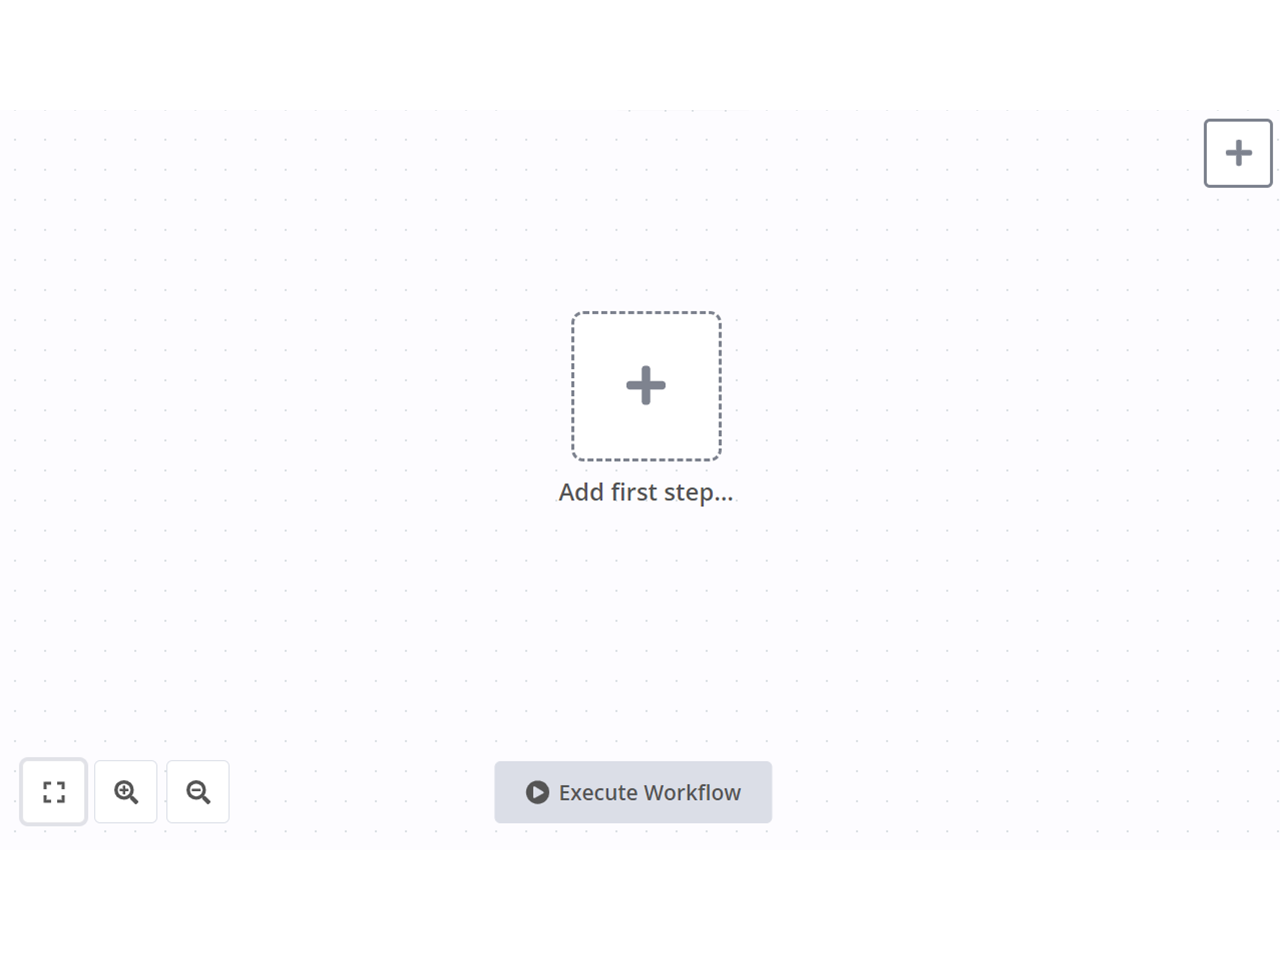
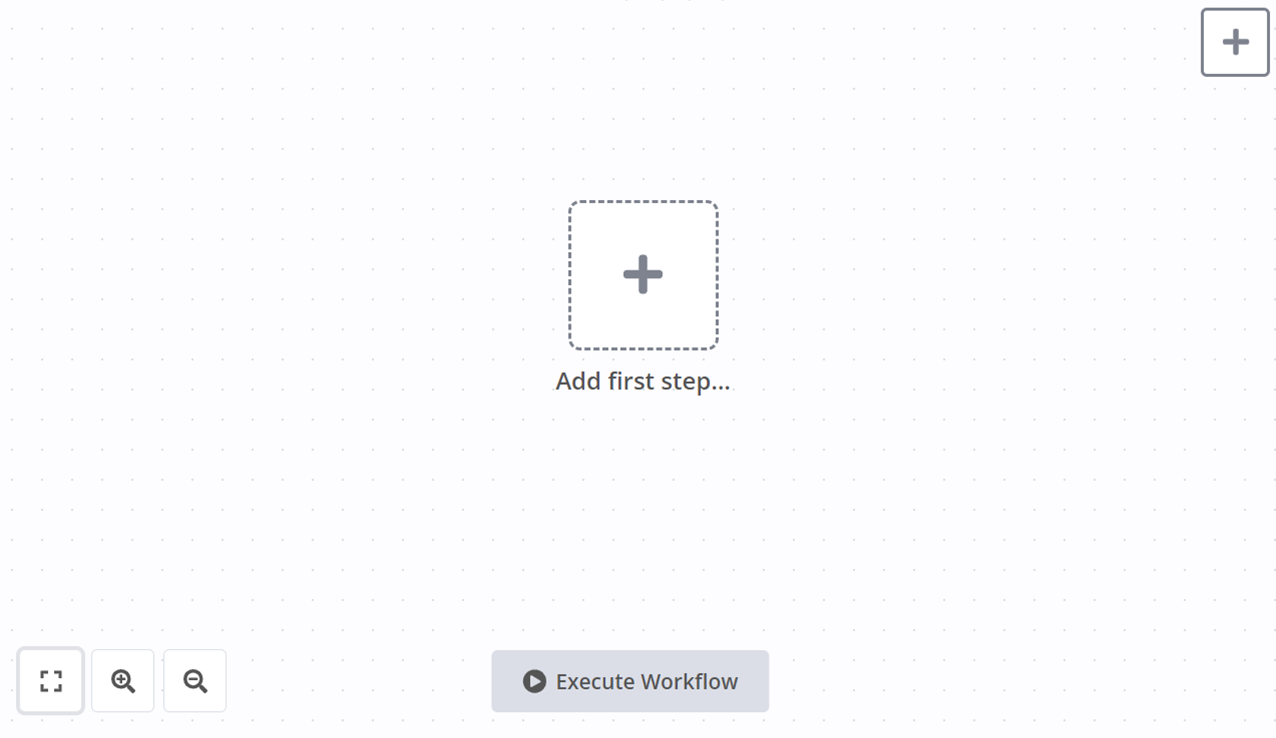
Copy updates and new images for level 1 chapter 1 of course.

diff --git a/docs/courses/level-one/chapter-1.md b/docs/courses/level-one/chapter-1.md
@@ -8,16 +8,19 @@ In this lesson you will learn how to navigate the Editor UI. We will walk throug
 
 ## Getting started
 
-First of all, you need to get n8n. There are different [ways to set up n8n](/hosting/options/){:target="_blank" .external}, choose the option that best suits your skills and needs.
+The first step is setting up n8n. There are two ways you can do this:
+
+- [n8n Cloud](https://app.n8n.cloud/register){:target="_blank" .external} - Hosted solution, no installation needed. Great for all levels of expereince
+- [Self-host](/hosting/){:target="_blank" .external} - Recommended for advanced users with technical knowledge
+
+For more details on the different ways to set up n8n, see our [platforms documentation](/choose-n8n/#platforms){:target="_blank" .external}
 
 /// warning | n8n version
-This course was developed on n8n version 0.175.1. In other versions, the Editor UI might look different, but the core functionality of the workflows should not be impacted.
+This course was developed on n8n version 1.15.0. In other versions, some of the user interface might look different, but the core functionality should not be impacted.
 ///
 Once you have n8n running, open the Editor UI in a browser window. It should look like this:
 
-<figure><img src="/_images/courses/level-one/chapter-one/editor-ui.png" alt="Editor UI" style="width:100%"><figcaption align = "center"><i>Editor UI</i></figcaption></figure>
-
-Next, you'll learn how to navigate the Editor UI.
+<figure><img src="/_images/courses/level-one/chapter-one/l1-c1-editor-ui.png" alt="Editor UI" style="width:100%"><figcaption align = "center"><i>Editor UI</i></figcaption></figure>
 
 ## Editor UI settings
 
@@ -25,30 +28,33 @@ The [Editor UI](/editor-ui/) represents the web interface where you build [workf
 
 ### Left-side panel
 
-In the upper left corner, click on the round arrow icon. This will open the left-side menu, which contains the core functionalities and settings for managing workflows.
+On the left side of the editor UI, there is a panel which contains the core functionalities and settings for managing your workflows. It can be expanded and collapsed by clicking on the small arrow icon.
 
 The panel contains the following sections:
 
-- *Admin Panel*: Access the management Dashboard (for n8n Cloud users).
-- *Workflows*: Contains operations for creating and editing workflows.
-- *Templates*: Contains pre-built workflows that can be searched.
-- *Credentials*: Contains operations for creating credentials.
-- *Executions*: Contains information about your workflow executions.
-- *Settings*: Contains editable configuration for the account and other things.
-- *Help*: Contains resources around n8n product and community.
+- *Workflows*: Contains all the workflows you have access to and where you can create new workflows.
+- *Templates*: A collection of pre-made workflows. Great place to get started with common use cases.
+- *Credentials*: Contains all the credentials you have access to and where you can add additional credentials.
+- *Variables*: Used to store and access fixed data across your workflows. This feature is available on Pro & Enterprise Plan.
+- *All executions*: Contains information about your workflow executions
+- *Admin Panel*: Access your n8n instance usage, billing and version settings(for n8n Cloud users)
+- *Settings*: Access settings for a variety of features, manage users
+- *Help*: Contains resources around n8n product and community
+- *Update*: Indicator for any recently released product updates 
 
-<figure style="text-align: center;"><img src="/_images/courses/level-one/chapter-one/Left-side-menu.png" alt="Editor UI left-side menu" style="height: 600px;"><figcaption align = "center"><i>Editor UI left-side menu</i></figcaption></figure>
+<figure style="text-align: center;"><img src="/_images/courses/level-one/chapter-one/l1-c1-side-panel.png" alt="Editor UI left-side menu" style="height: 600px;"><figcaption align = "center"><i>Editor UI left-side menu</i></figcaption></figure>
 
 ### Top bar
 
 The top bar of the Editor UI contains the following information:
 
-- *Name* of the current workflow. By default, a new workflow is named "My Workflow", but can edit this name anytime.
-- *Tag* of the current workflow. Tags help you organize your workflows by category, use case, or whatever is relevant for you. Tags are optional.
-- *Save* button that saves the current workflow.
-- *Toggle* button that activates or deactivates the current workflow. By default, workflows are deactivated.
+- *Workflow Name:* By default, a new workflow is named “My Workflow”, but can be edited at any time as required.
+- *+Add Tag:* Tags help you organise your workflows by category, use case or whatever is relevant for you. Tags are also optional
+- *Inactive/active toggle:* This button activates or deactivates the current workflow. By default, workflows are deactivated.
+- *Share:* You can share and collaborate with others on workflows on the Starter, Pro & Enterprise plans
+- *Save:* This button saves the current workflow
 
-<figure><img src="/_images/courses/level-one/chapter-one/editor-ui-top-bar.png" alt="Editor UI top bar" style="width:100%"><figcaption align = "center"><i>Editor UI top bar</i></figcaption></figure>
+<figure><img src="/_images/courses/level-one/chapter-one/l1-c1-top-bar.png" alt="Editor UI top bar" style="width:100%"><figcaption align = "center"><i>Editor UI top bar</i></figcaption></figure>
 
 ### Canvas
 
@@ -57,10 +63,10 @@ The *canvas* is the gray grid background in the Editor UI. On the canvas, there 
 - Buttons to zoom the canvas to fit the screen, zoom in or out of the canvas, and reset the canvas to the original resolution.
 - A button to *Execute Workflow*. When you click on it, all nodes on the canvas are executed.
 - A button with a *+* sign inside. This button opens the nodes panel.
-- A button with a note icon inside. This button adds a [sticky note](/workflows/sticky-notes){:target="_blank" .external} to the canvas.
-- A square with a green play icon inside. This is the *Start node*. You will learn more about nodes in the [next section](#nodes).
+- A button with a note icon inside. This button adds a [sticky note](/workflows/sticky-notes){:target="_blank" .external} to the canvas. (Visible when hovering on the top right + icon)
+- A dotted square with the text "add first step". This is where you would add your first node.
 
-<figure><img src="/_images/courses/level-one/chapter-one/workflow-canvas.png" alt="Workflow canvas" style="width:100%"><figcaption align = "center"><i>Workflow canvas</i></figcaption></figure>
+<figure><img src="/_images/courses/level-one/chapter-one/l1-c1-canvas.png" alt="Workflow canvas" style="width:100%"><figcaption align = "center"><i>Workflow canvas</i></figcaption></figure>
 
 /// note | Moving the canvas
 You can move the workflow canvas around in two ways:
@@ -74,7 +80,7 @@ Don't worry about workflow execution and activation for now, we will explain the
 
 ## Nodes
 
-You can think of nodes as building blocks that serve different functions but, when put together, they make up a functioning machinery – an automated workflow.
+You can think of nodes as building blocks that serve different functions but, when put together, they make up a functioning machine – an automated workflow.
 
 /// note | Node
 A node is an individual step in your workflow — one that either (a) loads, (b) processes or (c) sends data.
@@ -86,30 +92,22 @@ Based on their function, nodes can be classified into two types:
 - **Trigger Nodes** start a workflow and supply the initial data.
 
 /// note | Keep in mind
-Among the Regular and Trigger nodes there are some nodes that do not represent any app or service, instead they serve general functions like scheduling workflows (e.g. Cron and Interval nodes) or adding JavaScript functions (e.g. Function and Function Item nodes). We refer to these as *Core Nodes*.
+Among the Regular and Trigger nodes there are some nodes that do not represent any app or service, instead they serve general functions like scheduling workflows (e.g. Schedule Trigger) or adding JavaScript functions (e.g. Code Node). We refer to these as *Core Nodes*.
 ///
-
-### Start node
-
-The [*Start node*](/integrations/builtin/core-nodes/n8n-nodes-base.start/){:target="_blank" .external} is the default starting point in any workflow. Every time you create a new workflow, a *Start node* will be included by default.
-
-The **Start** node cannot be deleted or duplicated. If you have a workflow in which you don't use the Start node, you can remove the connection, deactivate it, and move it away from the workflow. If you need more than one Start node, you probably need to use other Trigger nodes or create separate workflows.
-
-You've probably figured out already that the *Start node* is a Core Trigger node. Apart from it, there are over 290 other Regular and Trigger nodes for various functions, apps, and services.
 
 ### Finding nodes
 
 You can find all available nodes in the nodes panel on the right side of the Editor UI. There are three ways in which you can open the nodes panel:
 
 - Click the *+* icon in the top right corner of the canvas.
-- Click the gray dot on the right side of an existing node on the canvas (the node to which you want to add another one) and pull the connection line to the right.
+- Click the *+* icon on the right side of an existing node on the canvas (the node to which you want to add another one)
 - Click the Tab key on your keyboard.
 
-<figure style="text-align: center;"><img src="/_images/courses/level-one/chapter-one/nodes-panel.png" alt="Nodes panel" style="width:50%"><figcaption align = "center"><i>Nodes panel</i></figcaption></figure>
+<figure style="text-align: center; width:50%; margin:auto;"><img src="/_images/courses/level-one/chapter-one/l1-c1-node-menu-drilldown.gif" alt="Nodes panel"><figcaption align = "center"><i>Nodes panel</i></figcaption></figure>
 
-In the nodes panel, notice that the nodes are grouped in three tabs: All, Regular, and Trigger. In addition, nodes are also grouped by their functionality domain (like Analytics or Sales). This makes it easier to find the nodes you need.
+In the nodes panel, notice that when adding your first node, you will see the different trigger node categories. After you have added your trigger node, you'll see that the nodes panel changes to show Action, Data transformation, Helper, Flow and File nodes.
 
-If you want to get a specific node, type in the name of the node, app, or service in the search field and select the respective tab.
+If you want to find a specific node, you can use the search input at the top of the nodes panel.
 
 
 ### Adding nodes
@@ -119,21 +117,14 @@ There are two ways to add nodes to your canvas:
 - Click on the node you want in the nodes panel. The new node will automatically be connected to the selected node on the canvas.
 - Drag and drop the node from the nodes panel to the canvas.
 
-To review, here's a walkthrough of the Editor UI touching on all the settings you've learned so far:
-
-<figure><img src="/_images/courses/level-one/chapter-one/Editor-UI-walkthrough.gif" alt="Editor UI walkthrough" style="width:100%"><figcaption align = "center"><i>Editor UI walkthrough</i></figcaption></figure>
-
 ### Node buttons
 
 If you hover on a node, you'll notice that four icons appear on top:
 
-- Delete the node
-- Deactivate/Activate the node
-- Duplicate the node
-- Execute the node
-
-<figure><img src="/_images/courses/level-one/chapter-one/Node-buttons.gif" alt="The four node buttons" style="width:100%"><figcaption align = "center"><i>The four node buttons</i></figcaption></figure>
-
+- Delete the node (Trash icon)
+- Deactivate/Activate the node (Pause icon)
+- Duplicate the node (Copy icon)
+- Execute the node (Play icon)
 
 /// note | Moving a workflow
 To move a workflow around the canvas, select all nodes with your mouse or by clicking **Ctrl + A**, click and hold on a node, then drag it to any point you want on the canvas.

diff --git a/docs/courses/level-one/index.md b/docs/courses/level-one/index.md
@@ -8,12 +8,14 @@ Welcome to the **n8n Course Level 1**!
 
 ## Is this course right for me?
 
-This course teaches you how to automate processes with no code using n8n and is meant to jumpstart your qualification as an automation expert.
+This course introduces you to the fundamental concepts within n8n and develops your low-code automation expertise.
 
 This course is for you if you:
 
-- Want to automate things in your personal life
-- Are looking for quick ways to automate common business processes
+- Are starting to use n8n for the first time 
+- Are looking for some extra help creating your first workflow
+- Want to automate processes in your personal or working life
+
 
 ## What will I learn in this course?
 
@@ -33,12 +35,12 @@ You will build two workflows:
 - A two-node workflow to get articles from Hacker News
 - A seven-node workflow to help your client get records from a data warehouse, filter them, make calculations, and notify team members about the results
 
-
 ## What do I need to get started?
 
-- **n8n set up**: You can use the [self-hosted version](/hosting/installation/npm/){:target="_blank" .external}, or [n8n Cloud](/choose-n8n/cloud/){:target="_blank" .external}.
-- **A user ID**: [Sign up here](https://n8n-community.typeform.com/to/PDEMrevI){:target="_blank" .external} to get your unique ID and other credentials you will need in the course.
-- Basic knowledge of JavaScript and [APIs](https://n8n.io/blog/what-are-apis-how-to-use-them-with-no-code/){:target="_blank" .external} would be helpful, but is not necessary.
+1. **n8n set up**: You can use the [self-hosted version](/hosting/installation/npm/){:target="_blank" .external}, or [n8n Cloud](/choose-n8n/cloud/){:target="_blank" .external}.
+2. **A user ID**: [Sign up here](https://n8n-community.typeform.com/to/PDEMrevI){:target="_blank" .external} to get your unique ID and other credentials you will need in the course.
+3. Basic knowledge of JavaScript and [APIs](https://n8n.io/blog/what-are-apis-how-to-use-them-with-no-code/){:target="_blank" .external} would be helpful, but is not necessary.
+4. An [account on the n8n community forum](/courses/level-one/chapter-5/chapter-5.1/){:target="_blank" .external} if you wish to receive a profile badge and avatar upon successful completion
 
 ## How long does the course take?
 
@@ -51,7 +53,9 @@ There are two milestones in this course that test your knowledge of what you hav
 - [x] Building the [main workflow](/courses/level-one/chapter-5/chapter-5.1/){:target="_blank" .external}
 - [x] Passing the [quiz](https://n8n-community.typeform.com/to/JMoBXeGA){:target="_blank" .external-link} at the end of the course
 
+/// note | Check your progress
 You can always **check your progress** throughout the course by entering your unique ID [here](https://internal.users.n8n.cloud/webhook/course-level-1/verify){:target="_blank" .external}.
+///
 
 If you successfully complete the milestones above, you will get [**a badge and an avatar**](https://community.n8n.io/badges/104/completed-n8n-course-level-1){:target="_blank" .external-link} in your forum profile. You can then share your profile and course verification ID to showcase your n8n skills to others.
 
